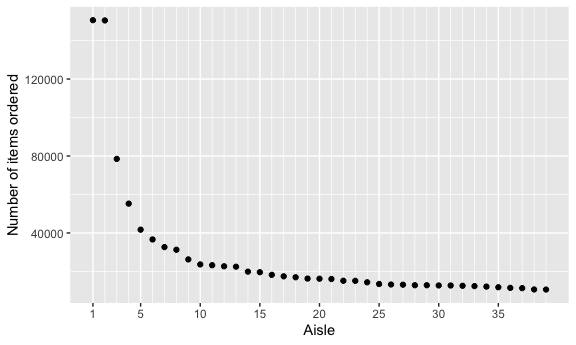
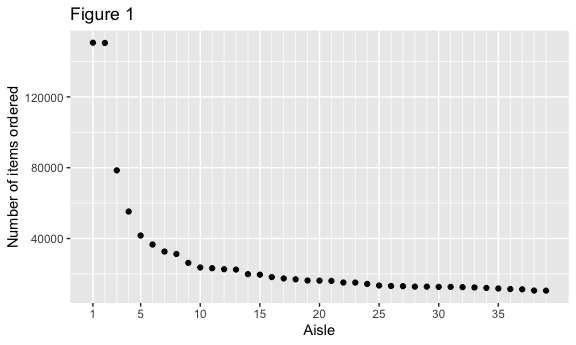
problem 1, figure 1

diff --git a/p8105_hw3_ml4198.md b/p8105_hw3_ml4198.md
@@ -43,6 +43,8 @@ instacart %>%
 There are 134 aisles, and the most commonly ordered from are aisle 83
 (150609 orders), 24 (150473 orders), and 123 (78493 orders).
 
+**Code for figure 1**
+
 ``` r
 instacart %>% 
     group_by(aisle_id) %>% 
@@ -61,14 +63,11 @@ instacart %>%
     minor_breaks = c(1:39)) +
   labs(
     x = "Aisle",
-    y = "Number of items ordered"
+    y = "Number of items ordered",
+    title = "Figure 1"
   )
 ```
 
     ## `summarise()` ungrouping output (override with `.groups` argument)
 
 <img src="p8105_hw3_ml4198_files/figure-gfm/unnamed-chunk-2-1.png" width="90%" />
-
-labs( title = “Temperature plot”, x = “Minimum Daily Temperature (C)”, y
-= “Maximum Daily Temperature (C)”, caption = “Data from the rnoaa
-packaege: temperatures in 2017”
